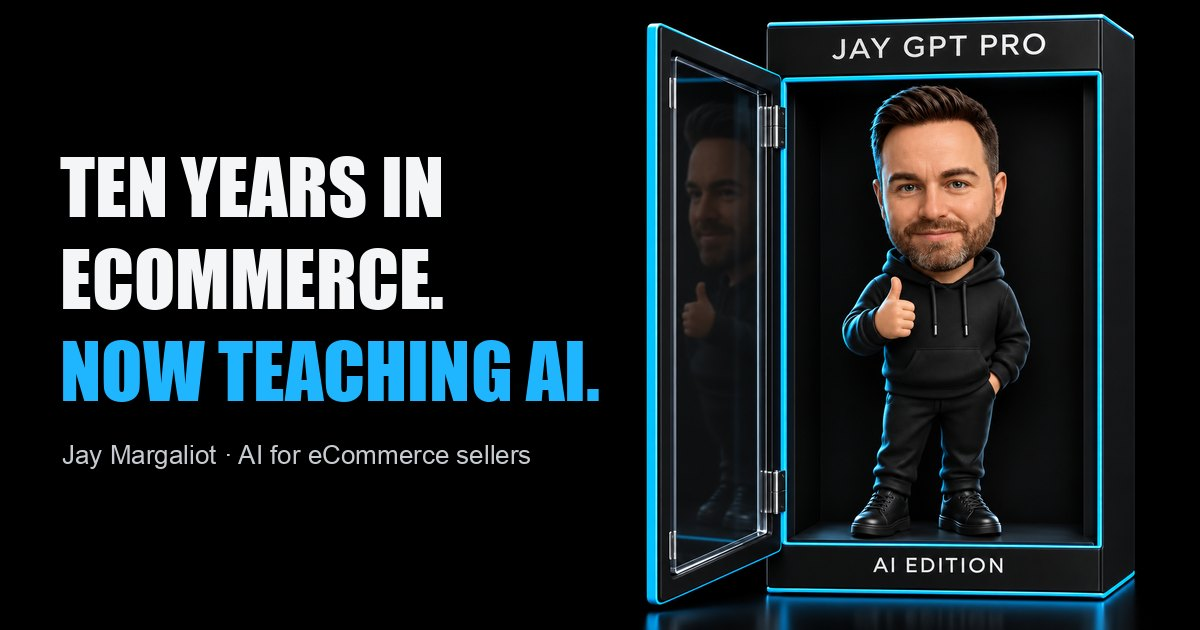
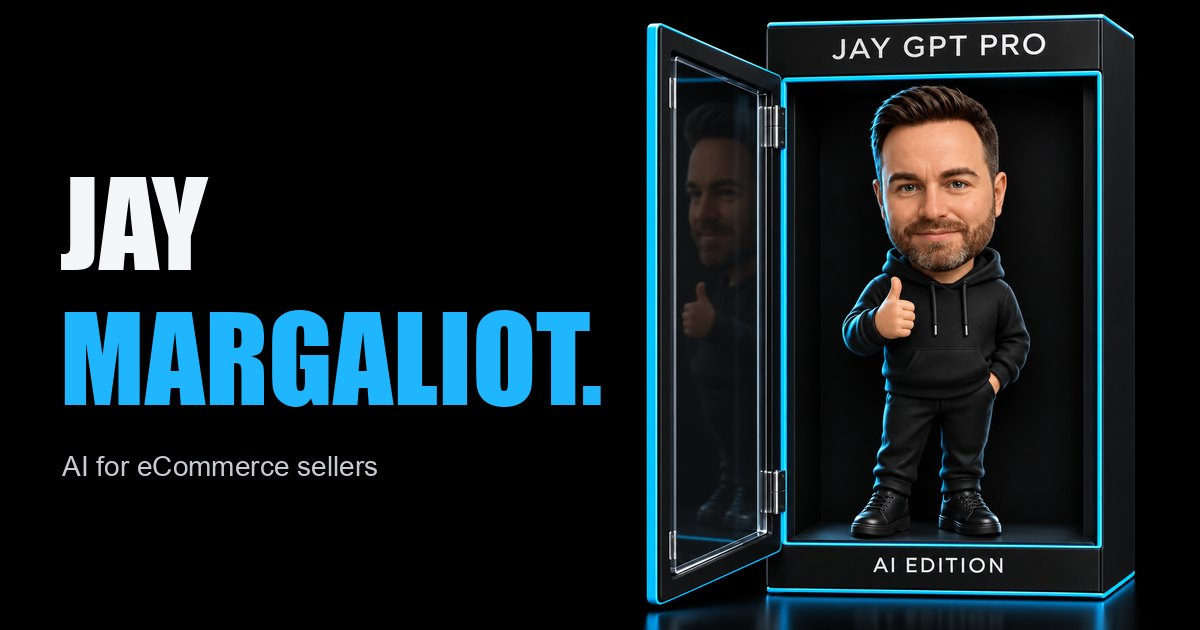
Homepage headline: just the name, "Jay Margaliot."
Jay picked the name as the headline, like the creator sites he looked at
(Marc Lou, Sahil Bloom, Matt Wolfe). The line under it explains: "AI for
eCommerce sellers. Ten years in eCommerce, now teaching business owners to
use AI, without code." The name is set large and checked from 360px to
2560px wide. Title, share title and share image follow.

Changed region(s): [[0.0308, 0.2413, 0.5242, 0.6635], [0.0308, 0.6937, 0.4317, 0.754]]

diff --git a/index.html b/index.html
@@ -3,13 +3,13 @@
 <head>
 <meta charset="utf-8">
 <meta name="viewport" content="width=device-width,initial-scale=1,viewport-fit=cover">
-<title>Jay Margaliot | Practical AI for eCommerce sellers</title>
+<title>Jay Margaliot | AI for eCommerce sellers</title>
 <meta name="description" content="Jay Margaliot spent ten years in eCommerce and now teaches Amazon sellers and business owners to use AI in their business, without code. Join the free WhatsApp group, or explore his courses and services.">
 <link rel="canonical" href="https://jaygptpro.com/">
 <meta name="theme-color" content="#050607">
 <meta property="og:type" content="profile">
 <meta property="og:site_name" content="Jay GPT Pro">
-<meta property="og:title" content="Jay Margaliot | Ten years in eCommerce. Now teaching AI.">
+<meta property="og:title" content="Jay Margaliot | AI for eCommerce sellers">
 <meta property="og:description" content="AI for eCommerce sellers and business owners. Free WhatsApp group, the Claude Code Challenge, the AI Vault.">
 <meta property="og:url" content="https://jaygptpro.com/">
 <meta property="og:image" content="https://jaygptpro.com/home/og.jpg">
@@ -25,7 +25,7 @@
 <script type="application/ld+json">
 {"@context":"https://schema.org","@graph":[
  {"@type":"WebSite","@id":"https://jaygptpro.com/#site","url":"https://jaygptpro.com/","name":"Jay GPT Pro","publisher":{"@id":"https://jaygptpro.com/#jay"}},
- {"@type":"ProfilePage","@id":"https://jaygptpro.com/#page","url":"https://jaygptpro.com/","name":"Jay Margaliot | Practical AI for eCommerce sellers","isPartOf":{"@id":"https://jaygptpro.com/#site"},"mainEntity":{"@id":"https://jaygptpro.com/#jay"}},
+ {"@type":"ProfilePage","@id":"https://jaygptpro.com/#page","url":"https://jaygptpro.com/","name":"Jay Margaliot | AI for eCommerce sellers","isPartOf":{"@id":"https://jaygptpro.com/#site"},"mainEntity":{"@id":"https://jaygptpro.com/#jay"}},
  {"@type":"Person","@id":"https://jaygptpro.com/#jay","name":"Jay Margaliot","alternateName":["Jay GPT Pro","Jacob Margaliot"],"url":"https://jaygptpro.com/","image":"https://jaygptpro.com/assets/jay-headshot-2026.jpg","jobTitle":"AI educator for eCommerce sellers","description":"Jay Margaliot spent ten years in eCommerce and now teaches Amazon sellers and business owners to use AI in their business, without code: a free WhatsApp community, courses, the AI Vault membership and 1-on-1 calls.","knowsAbout":["Claude Code","AI for eCommerce","Amazon selling","AI agents","AI automation"],"worksFor":{"@type":"Organization","name":"Jay GPT PRO LLC","url":"https://jaygptpro.com/"},"sameAs":["https://www.linkedin.com/in/jay-margaliot/","https://www.youtube.com/@Jay_Margaliot","https://www.instagram.com/jay_margaliot"]}
 ]}
 </script>
@@ -99,7 +99,7 @@ img,canvas{display:block;max-width:100%}
 .copy{position:relative;z-index:2}
 .kick{font-size:14px;color:var(--soft);margin-bottom:18px}
 .kick b{color:var(--ac);font-weight:600}
-h1{font-size:clamp(50px,7vw,108px)}
+h1{font-size:clamp(56px,11vw,170px)}
 h1 .ln>span{white-space:nowrap}
 h1 .ln{display:block;overflow:hidden;padding-top:.06em}
 h1 .ln>span{display:block}
@@ -205,7 +205,7 @@ footer a:hover{color:var(--txt)}
   .stagebox{width:min(92vw,430px);order:-1;margin:0 auto 10px}
   .num{font-size:62vw}
   .ed{display:none}
-  h1{font-size:clamp(40px,11.6vw,74px)}
+  h1{font-size:clamp(48px,21vw,110px)}
   .sub{margin:18px 0 22px}
   .scrollcue{display:none}
   .row{grid-template-columns:1fr 1fr}
@@ -265,9 +265,9 @@ footer a:hover{color:var(--txt)}
 <section class="hero" id="hero">
   <div class="wrap hero-grid">
     <div class="copy">
-      <p class="kick"><b>Jay Margaliot</b> · AI for eCommerce sellers</p>
-      <h1 class="d"><span class="ln"><span>Ten years in</span></span><span class="ln"><span>eCommerce.</span></span><span class="ln"><span class="ac">Now teaching AI.</span></span></h1>
-      <p class="sub">I'm Jay Margaliot. I show Amazon sellers and business owners how to use AI in their business, without code.</p>
+      <p class="kick"><b>Jay GPT Pro</b> · AI for eCommerce sellers</p>
+      <h1 class="d"><span class="ln"><span>Jay</span></span><span class="ln"><span class="ac">Margaliot.</span></span></h1>
+      <p class="sub">AI for eCommerce sellers. Ten years in eCommerce, now teaching business owners to use AI, without code.</p>
       <a class="btn btn-wa btn-xl mag" href="https://chat.whatsapp.com/ILX65p1yWcaIG3c9WGHpTY" target="_blank" rel="noopener" data-track="wa_hero">
         <svg viewBox="0 0 24 24" fill="none" stroke="currentColor" stroke-width="2" stroke-linecap="round" stroke-linejoin="round" aria-hidden="true"><path d="M21 11.5a8.4 8.4 0 0 1-12.3 7.4L3 21l2.1-5.7A8.4 8.4 0 1 1 21 11.5z"/></svg>
         Join the free WhatsApp group
